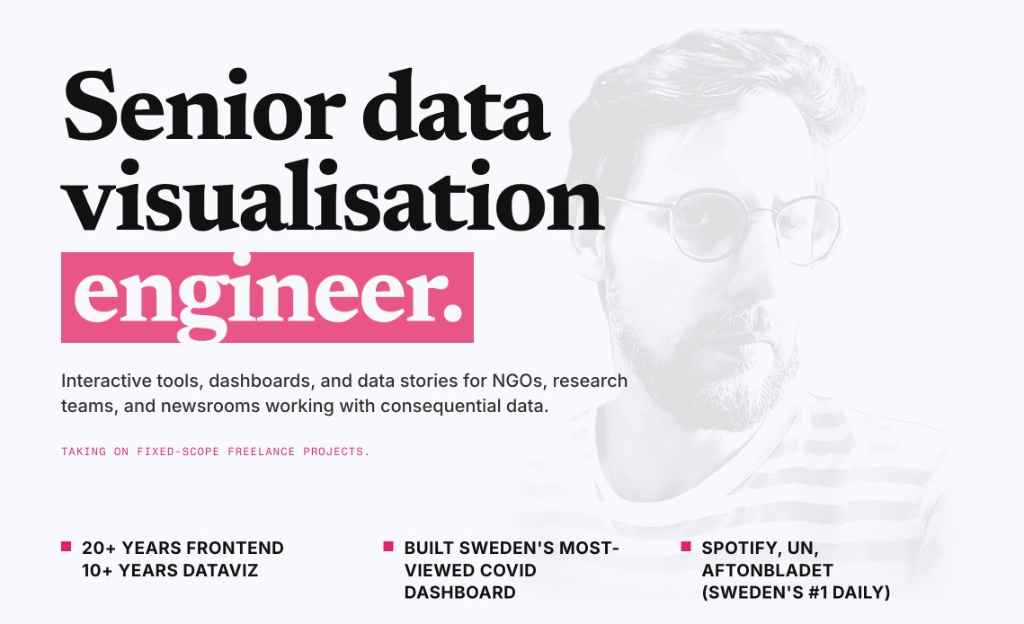
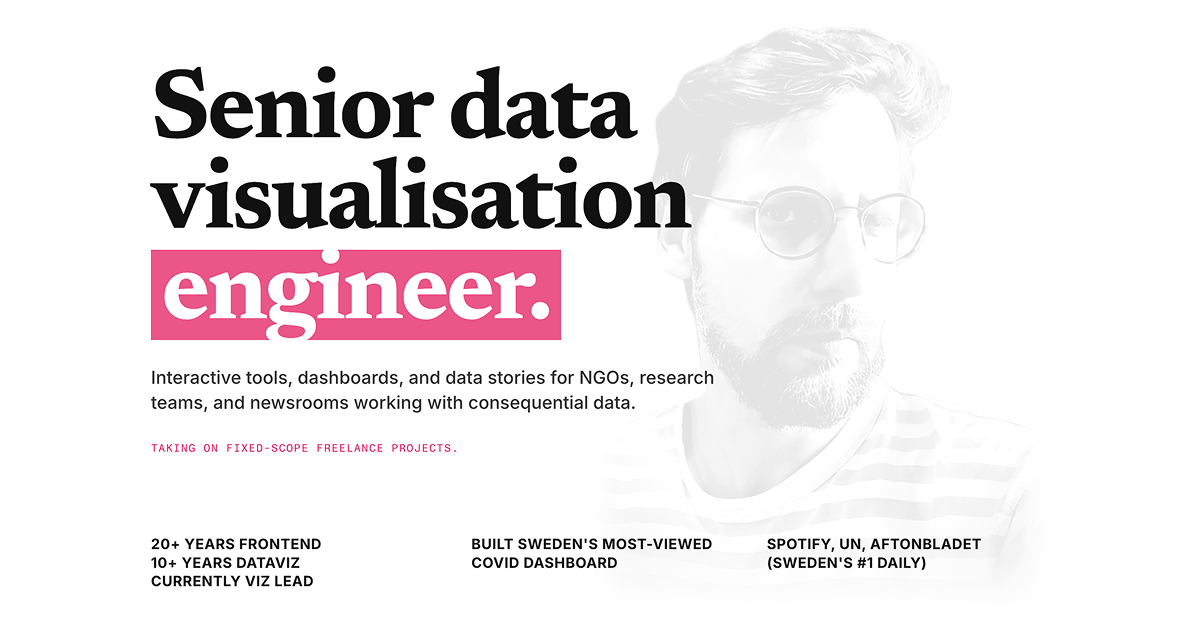
feat(seo): update social share image and enrich Open Graph metadata
- Replace og-image.png with new 1200x630 artwork and add ?v=2 cache-busting query so scrapers fetch the fresh image
- Add og:image dimensions plus alt text for Open Graph and Twitter cards
- Include "Senior" in og:title to match on-page positioning
- Add Observable link to the radial network component thumbnail

diff --git a/index.html b/index.html
@@ -18,7 +18,7 @@
     <meta property="og:url" content="https://gitnoise.github.io/portfolio/" />
     <meta
       property="og:title"
-      content="Patrick Wojda – Data Visualisation Engineer"
+      content="Patrick Wojda – Senior Data Visualisation Engineer"
     />
     <meta
       property="og:description"
@@ -26,7 +26,13 @@
     />
     <meta
       property="og:image"
-      content="https://gitnoise.github.io/portfolio/assets/og-image.png"
+      content="https://gitnoise.github.io/portfolio/assets/og-image.png?v=2"
+    />
+    <meta property="og:image:width" content="1200" />
+    <meta property="og:image:height" content="630" />
+    <meta
+      property="og:image:alt"
+      content="Senior data visualisation engineer. Interactive tools, dashboards, and data stories for NGOs, research teams, and newsrooms."
     />
     <meta name="twitter:card" content="summary_large_image" />
     <meta
@@ -39,7 +45,11 @@
     />
     <meta
       name="twitter:image"
-      content="https://gitnoise.github.io/portfolio/assets/og-image.png"
+      content="https://gitnoise.github.io/portfolio/assets/og-image.png?v=2"
+    />
+    <meta
+      name="twitter:image:alt"
+      content="Senior data visualisation engineer. Interactive tools, dashboards, and data stories for NGOs, research teams, and newsrooms."
     />
     <link rel="canonical" href="https://gitnoise.github.io/portfolio/" />
     <link rel="preconnect" href="https://fonts.googleapis.com" />
@@ -2175,6 +2185,14 @@
                 <h3 class="thumb-title">Network Explorer</h3>
                 <div class="thumb-meta">
                   Reusable radial network component · D3 · configurable layouts
+                </div>
+                <div class="also-link">
+                  <a
+                    href="https://observablehq.com/d/4a52e3781ccd554c"
+                    target="_blank"
+                    rel="noopener noreferrer"
+                    >View →</a
+                  >
                 </div>
               </div>
               <div class="thumb-item">